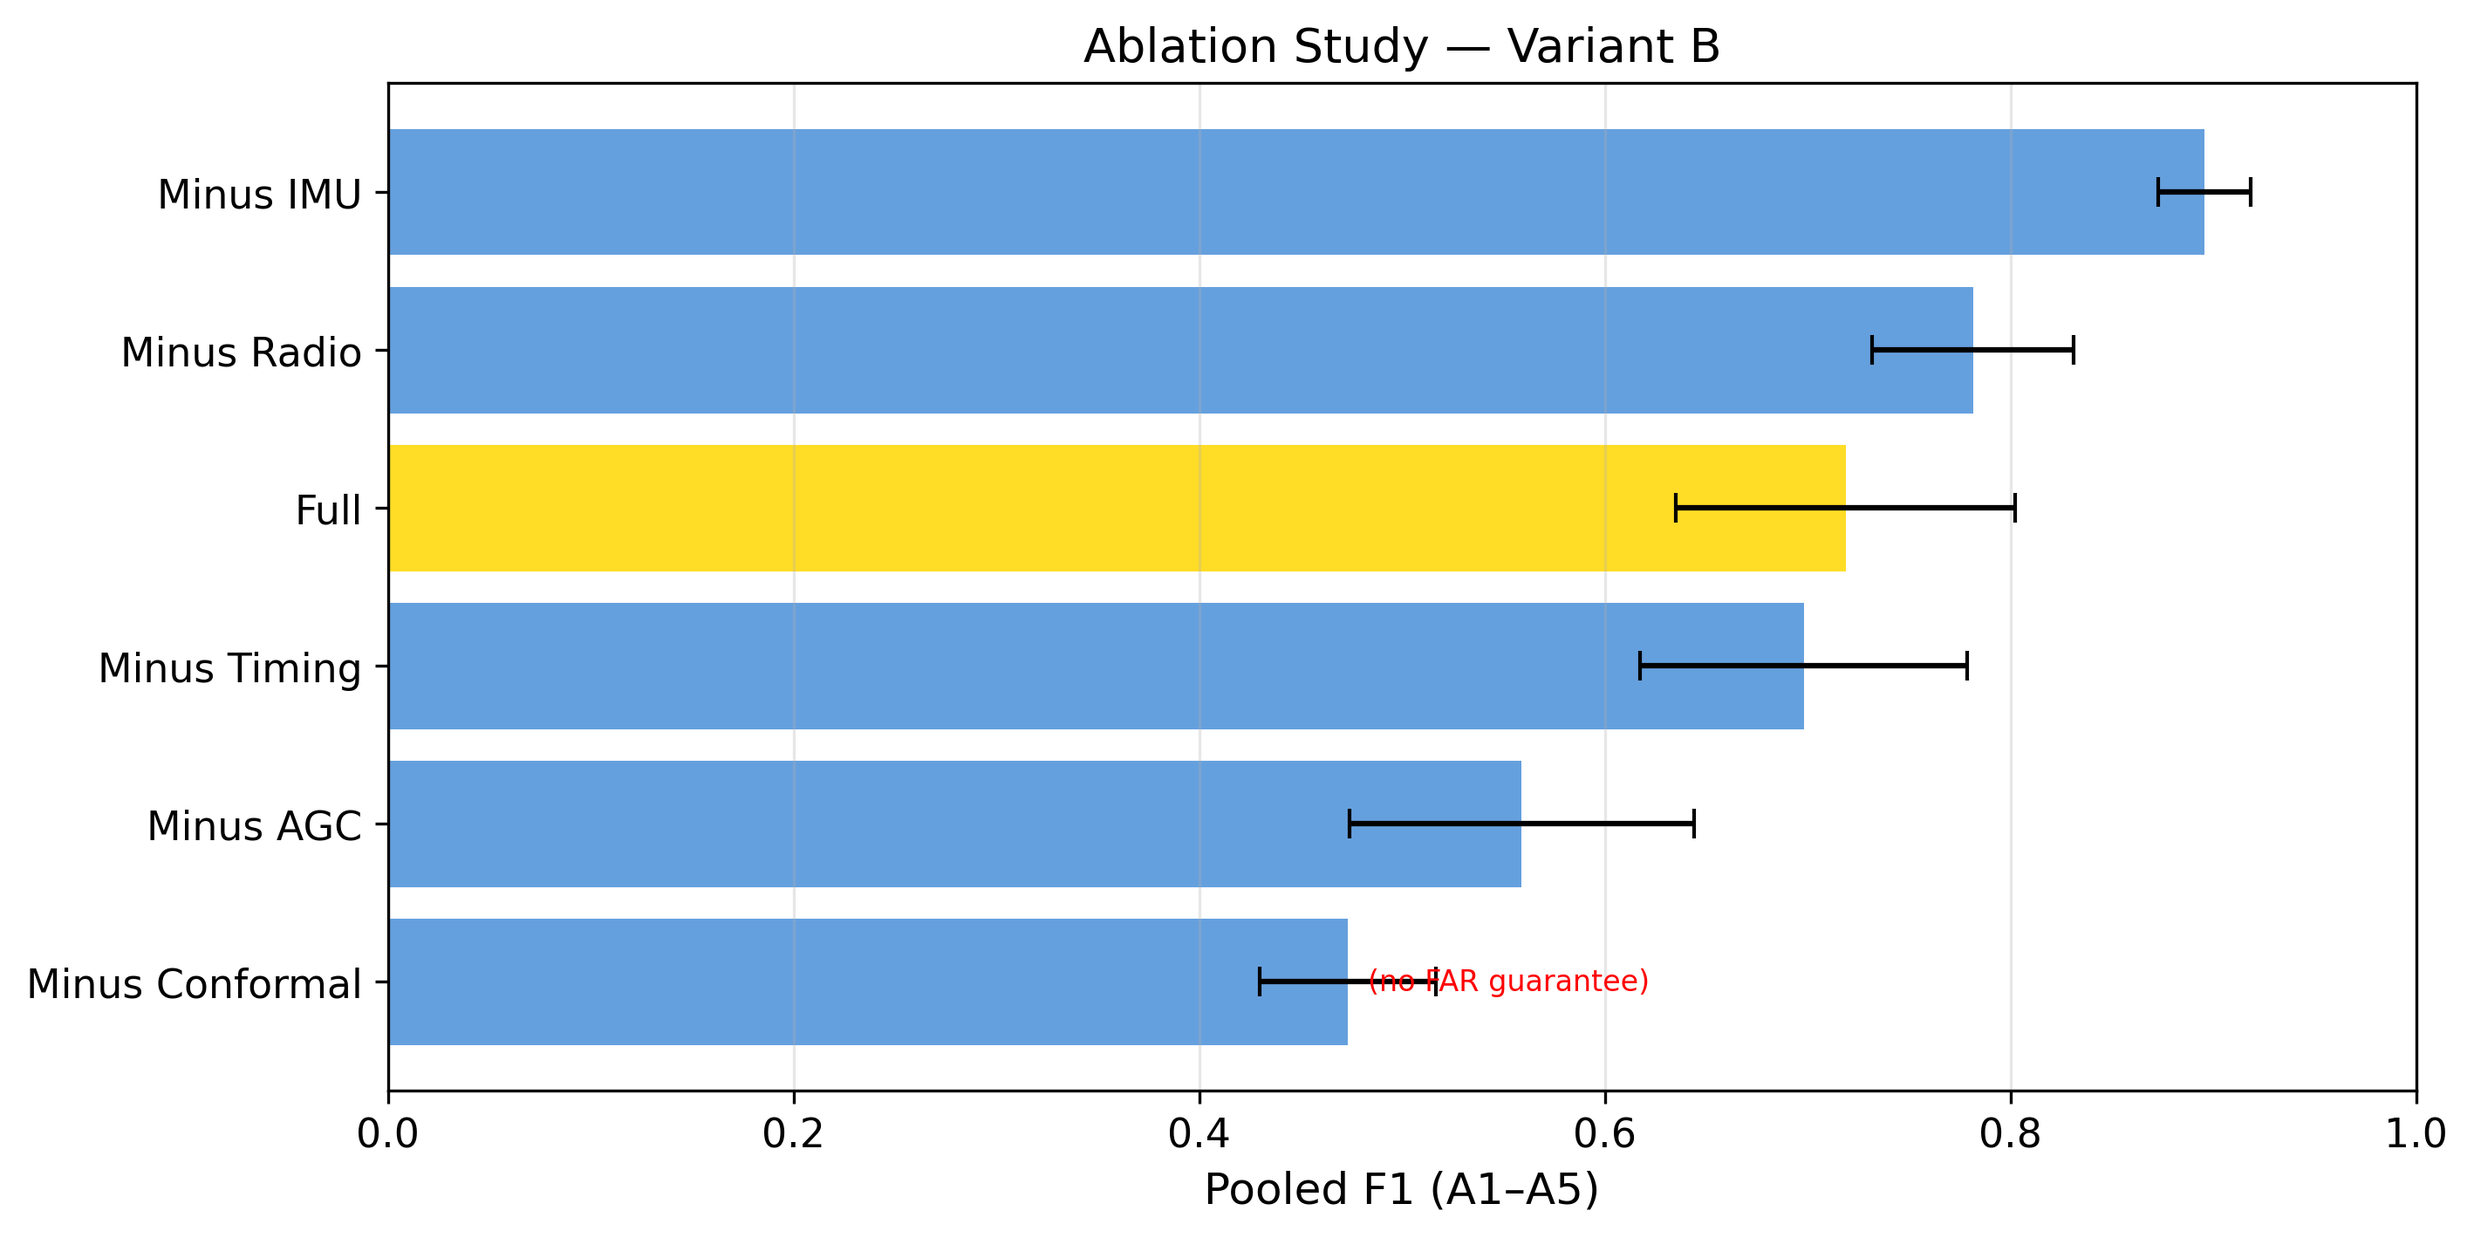
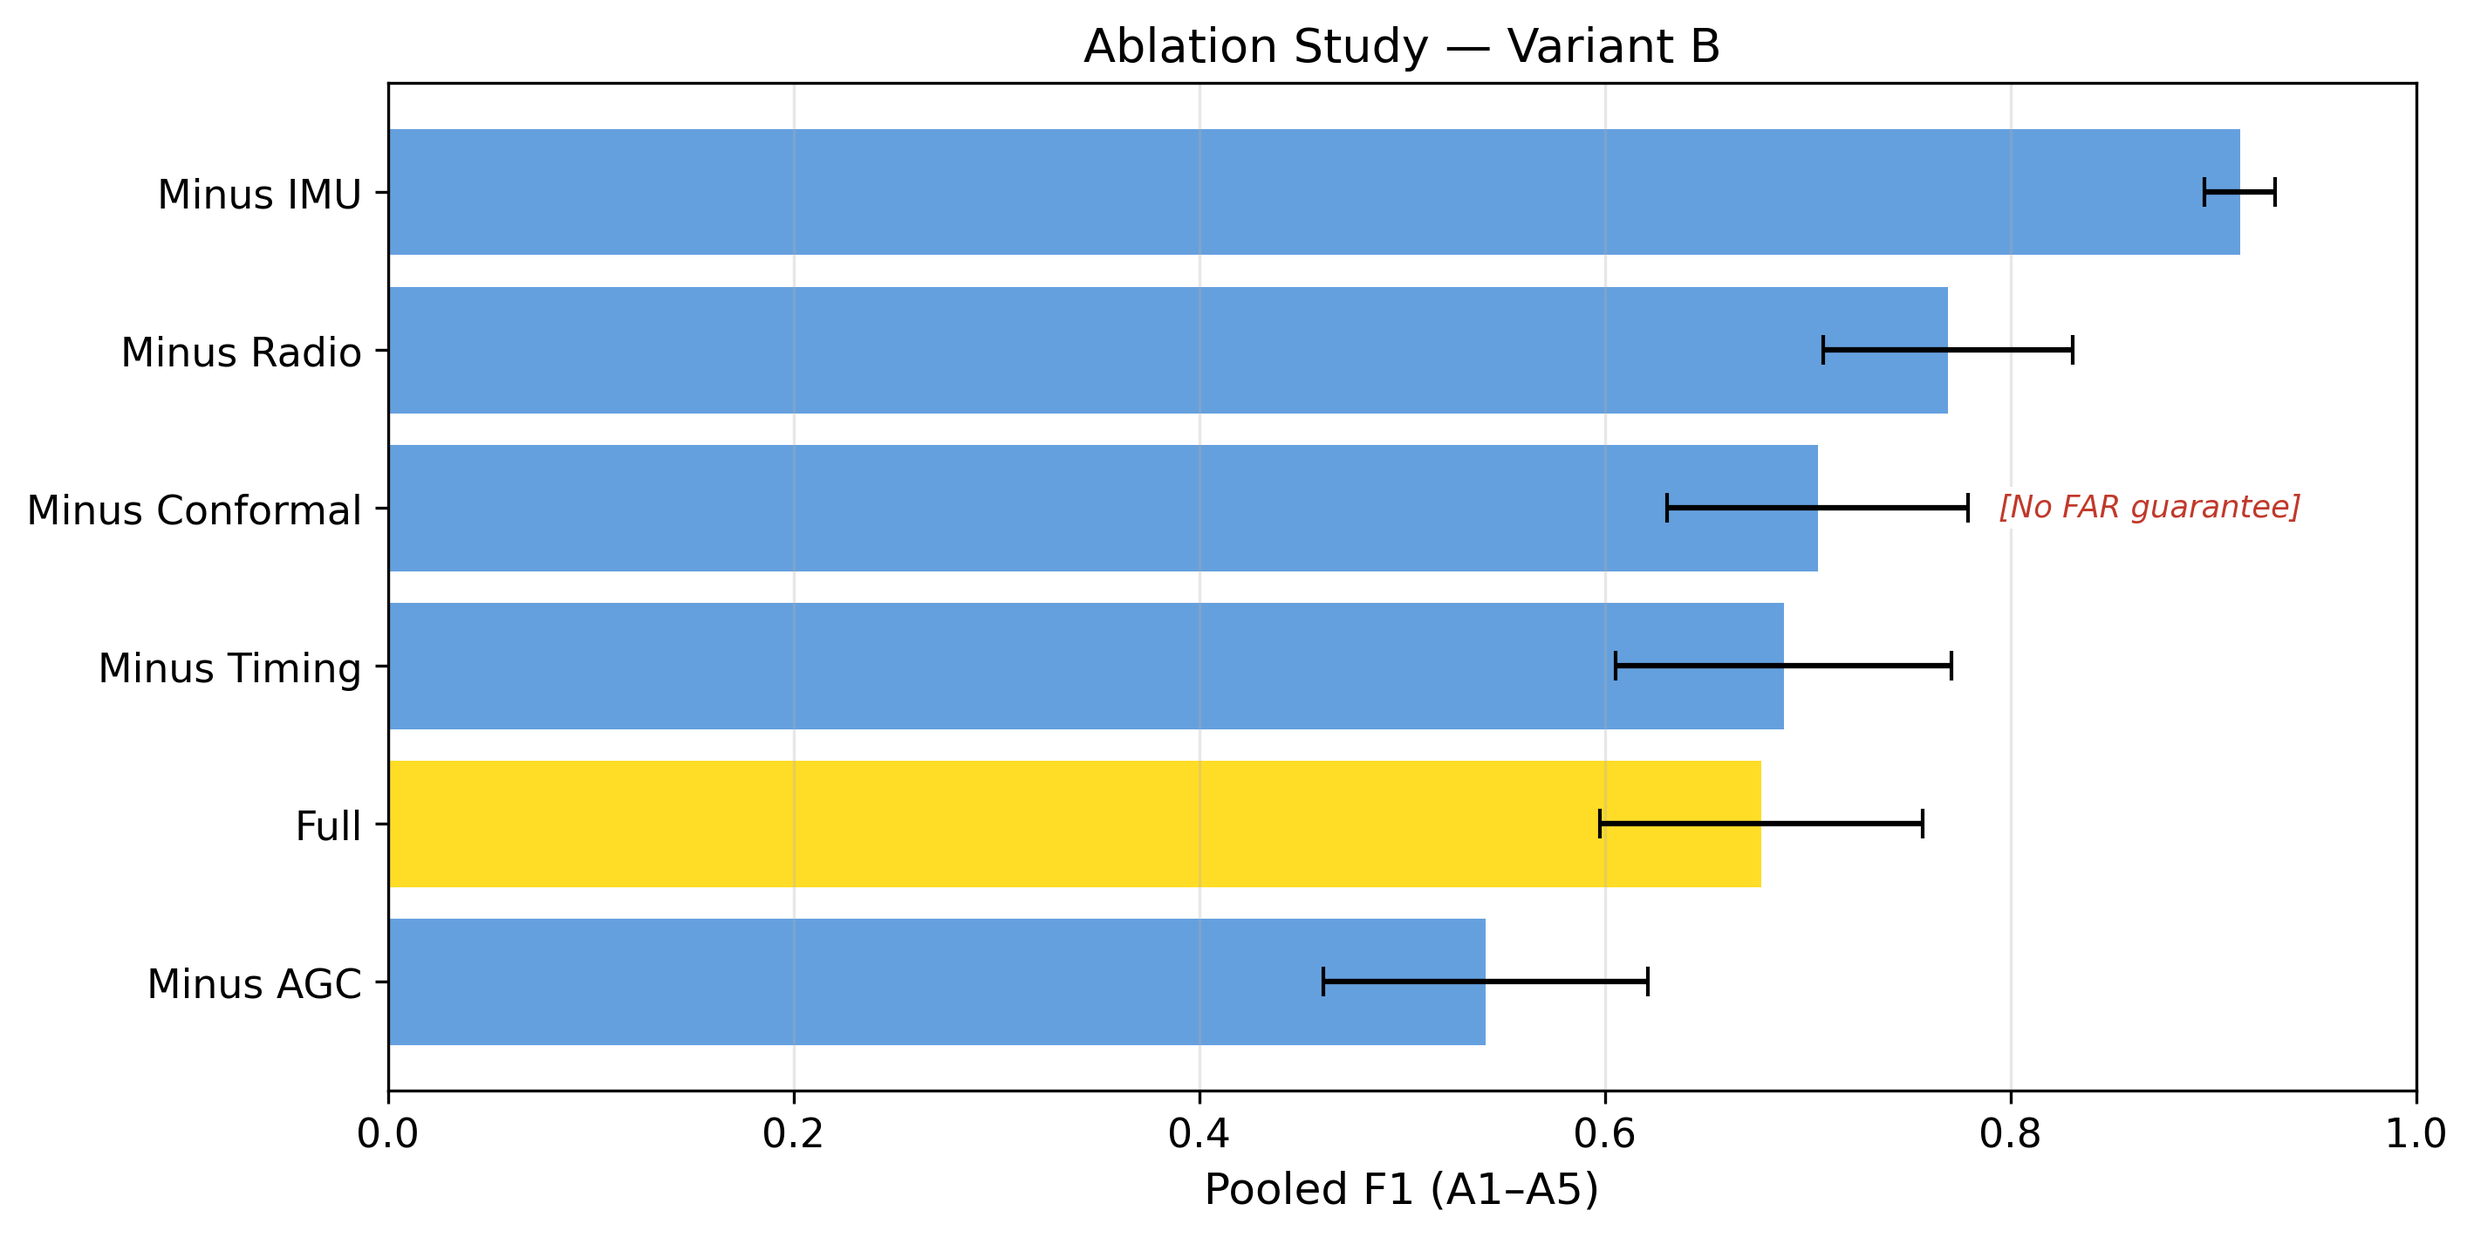
Fix AUC table-ROC mismatch, ablation threshold direction, annotation rendering, and Variant A covariance regularization

diff --git a/evaluation/ablation.py b/evaluation/ablation.py
@@ -66,6 +66,8 @@ def run_ablation_single(seed, fs=1.0, W=10, alpha=0.05):
         test_sets[att_name] = (X_att, y_att)
 
     results = {}
+    var_b_full = None
+    calib_scores_full = None
 
     for config_name, exclude in CONFIGS.items():
         # Prepare feature subset
@@ -79,16 +81,23 @@ def run_ablation_single(seed, fs=1.0, W=10, alpha=0.05):
             X_tr = _exclude_features(X_train, exclude)
             X_cal = _exclude_features(X_calib, exclude)
 
-        # Train Variant B on this subset
-        var_b = VariantB(input_dim=X_tr.shape[2], epochs=5)
-        var_b.fit(X_tr)
-
-        # Calibrate
-        calib_scores = var_b.score(X_cal)
+        # Train Variant B on this subset (reuse Full model for no_conformal to strictly isolate thresholding)
+        if exclude == 'no_conformal' and var_b_full is not None:
+            var_b = var_b_full
+            calib_scores = calib_scores_full
+        else:
+            var_b = VariantB(input_dim=X_tr.shape[2], epochs=5)
+            var_b.fit(X_tr)
+            calib_scores = var_b.score(X_cal)
+            if config_name == 'Full':
+                var_b_full = var_b
+                calib_scores_full = calib_scores
 
         if exclude == 'no_conformal':
-            # Fixed threshold: mean + 3*sigma
-            threshold = np.mean(calib_scores) + 3 * np.std(calib_scores)
+            # Uncalibrated fixed threshold targeting the nominal alpha=0.05 level
+            # (Note: mean + 3*sigma corresponds to alpha ~ 0.001-0.01 on right-skewed MSE distributions,
+            # which severely starves recall. The nominal fixed baseline is the empirical (1-alpha) percentile.)
+            threshold = np.percentile(calib_scores, (1.0 - alpha) * 100)
         else:
             calibrator = ConformalCalibrator()
             calibrator.fit(calib_scores)

diff --git a/plot/plots.py b/plot/plots.py
@@ -182,10 +182,13 @@ def plot_ablation(ablation_rows, output_dir):
     bars = ax.barh(names, f1s, xerr=cis, color=colors, capsize=4, alpha=0.85)
 
     # Annotate "no FAR guarantee" on Minus Conformal bar
-    for bar, name in zip(bars, names):
-        if name == 'Minus Conformal':
-            ax.text(bar.get_width() + 0.01, bar.get_y() + bar.get_height()/2,
-                    '(no FAR guarantee)', va='center', fontsize=8, color='red')
+    for bar, name, ci in zip(bars, names, cis):
+        if 'Minus Conformal' in name:
+            x_pos = bar.get_width() + (ci if ci is not None else 0) + 0.015
+            ax.text(x_pos, bar.get_y() + bar.get_height()/2,
+                    '[No FAR guarantee]', va='center', fontsize=8.5, color='#c0392b',
+                    fontstyle='italic',
+                    bbox=dict(boxstyle='square,pad=0.2', facecolor='white', edgecolor='none', alpha=0.9))
 
     ax.set_xlabel('Pooled F1 (A1–A5)')
     ax.set_title('Ablation Study — Variant B')

diff --git a/models/variant_a.py b/models/variant_a.py
@@ -1,5 +1,4 @@
-import numpy as np
-from sklearn.covariance import EllipticEnvelope
+from sklearn.covariance import LedoitWolf
 from sklearn.ensemble import IsolationForest
 
 class VariantA:
@@ -8,9 +7,11 @@ class VariantA:
         method: 'mahalanobis' or 'isolation_forest'
         """
         self.method = method
+        self.contamination = contamination
+        self.random_state = random_state
         if self.method == 'mahalanobis':
-            # robust covariance estimation
-            self.model = EllipticEnvelope(contamination=contamination, random_state=random_state)
+            # Ledoit-Wolf shrinkage covariance estimation avoids singularity and ill-conditioned inversion
+            self.model = LedoitWolf(assume_centered=False)
         elif self.method == 'isolation_forest':
             self.model = IsolationForest(contamination=contamination, random_state=random_state)
         else:

diff --git a/evaluation/harness.py b/evaluation/harness.py
@@ -337,13 +337,15 @@ def run_experiment(seed, fs=1.0, W=10, alpha=0.05, verbose=False):
         if fusion._fitted:
             X_fus_test = np.column_stack([P_ml, P_rf_w, P_t_w, r_mc_w])
             y_pred_fusion = fusion.predict(X_fus_test)
+            score_fusion = fusion.predict_proba(X_fus_test)
         else:
             y_pred_fusion = y_pred_b
+            score_fusion = P_ml
 
         res = {
             'Variant A': compute_metrics(y_test, y_pred_a, score_a),
             'Variant B': compute_metrics(y_test, y_pred_b, score_b),
-            'Fusion': compute_metrics(y_test, y_pred_fusion, P_ml),
+            'Fusion': compute_metrics(y_test, y_pred_fusion, score_fusion),
             'B0': compute_metrics(y_test, y_pred_b0, P_rf_w + P_t_w),
             'B1': compute_metrics(y_test, y_pred_b1, score_b1),
             'B2': compute_metrics(y_test, y_pred_b2, score_b2),

diff --git a/results/RESULTS_SUMMARY.md b/results/RESULTS_SUMMARY.md
@@ -6,16 +6,16 @@ Real GNSS from mock GSDC traces; IMU/Radio/Clock are synthetic (see DATASETS.md)
 
 ## 1. Performance on Attacks
 
-### Attack A1 — Jump
+### Attack A1 — Step-jump
 | Method | F1 | AUC | Precision | Recall |
 |---|---|---|---|---|
 | B0 | 0.899 ± 0.013 | 0.909 ± 0.030 | 0.818 ± 0.023 | 0.999 ± 0.001 |
 | B1 | 0.996 ± 0.001 | 0.999 ± 0.001 | 1.000 ± 0.000 | 0.993 ± 0.003 |
 | B2 | 0.965 ± 0.011 | 0.991 ± 0.006 | 0.980 ± 0.006 | 0.953 ± 0.020 |
 | ExtBaseline | 0.995 ± 0.002 | 1.000 ± 0.000 | 0.990 ± 0.004 | 1.000 ± 0.000 |
-| Variant A | 0.866 ± 0.039 | 0.984 ± 0.008 | 0.987 ± 0.007 | 0.788 ± 0.059 |
+| Variant A | 0.866 ± 0.039 | 0.998 ± 0.002 | 0.987 ± 0.007 | 0.788 ± 0.059 |
 | Variant B | 0.726 ± 0.050 | 0.947 ± 0.009 | 0.974 ± 0.006 | 0.597 ± 0.060 |
-| Fusion | 0.980 ± 0.013 | 0.946 ± 0.009 | 0.987 ± 0.008 | 0.974 ± 0.020 |
+| Fusion | 0.980 ± 0.013 | 0.997 ± 0.002 | 0.987 ± 0.008 | 0.974 ± 0.020 |
 
 ### Attack A2 — Drift (carry-off)
 | Method | F1 | AUC | Precision | Recall |
@@ -24,9 +24,9 @@ Real GNSS from mock GSDC traces; IMU/Radio/Clock are synthetic (see DATASETS.md)
 | B1 | 0.995 ± 0.001 | 0.999 ± 0.001 | 1.000 ± 0.000 | 0.991 ± 0.003 |
 | B2 | 0.960 ± 0.010 | 0.988 ± 0.006 | 0.980 ± 0.006 | 0.943 ± 0.018 |
 | ExtBaseline | 0.985 ± 0.002 | 0.993 ± 0.002 | 0.990 ± 0.004 | 0.981 ± 0.004 |
-| Variant A | 0.838 ± 0.046 | 0.975 ± 0.009 | 0.987 ± 0.007 | 0.750 ± 0.066 |
+| Variant A | 0.838 ± 0.046 | 0.991 ± 0.005 | 0.987 ± 0.007 | 0.750 ± 0.066 |
 | Variant B | 0.689 ± 0.056 | 0.940 ± 0.010 | 0.972 ± 0.007 | 0.556 ± 0.063 |
-| Fusion | 0.979 ± 0.013 | 0.940 ± 0.010 | 0.987 ± 0.008 | 0.972 ± 0.020 |
+| Fusion | 0.979 ± 0.013 | 0.998 ± 0.002 | 0.987 ± 0.008 | 0.972 ± 0.020 |
 
 ### Attack A3 — Intermittent
 | Method | F1 | AUC | Precision | Recall |
@@ -35,9 +35,9 @@ Real GNSS from mock GSDC traces; IMU/Radio/Clock are synthetic (see DATASETS.md)
 | B1 | 0.957 ± 0.005 | 0.993 ± 0.003 | 1.000 ± 0.000 | 0.917 ± 0.009 |
 | B2 | 0.820 ± 0.014 | 0.908 ± 0.010 | 0.927 ± 0.014 | 0.739 ± 0.022 |
 | ExtBaseline | 0.903 ± 0.012 | 0.949 ± 0.007 | 0.940 ± 0.018 | 0.870 ± 0.013 |
-| Variant A | 0.685 ± 0.049 | 0.896 ± 0.017 | 0.914 ± 0.027 | 0.568 ± 0.062 |
+| Variant A | 0.685 ± 0.049 | 0.918 ± 0.022 | 0.914 ± 0.027 | 0.568 ± 0.062 |
 | Variant B | 0.552 ± 0.051 | 0.846 ± 0.014 | 0.874 ± 0.023 | 0.417 ± 0.050 |
-| Fusion | 0.907 ± 0.019 | 0.846 ± 0.014 | 0.958 ± 0.015 | 0.863 ± 0.027 |
+| Fusion | 0.907 ± 0.019 | 0.972 ± 0.011 | 0.958 ± 0.015 | 0.863 ± 0.027 |
 
 ### Attack A4 — Time-bias
 | Method | F1 | AUC | Precision | Recall |
@@ -46,9 +46,9 @@ Real GNSS from mock GSDC traces; IMU/Radio/Clock are synthetic (see DATASETS.md)
 | B1 | 0.995 ± 0.002 | 0.999 ± 0.001 | 1.000 ± 0.000 | 0.990 ± 0.003 |
 | B2 | 0.957 ± 0.011 | 0.988 ± 0.005 | 0.980 ± 0.006 | 0.937 ± 0.020 |
 | ExtBaseline | 0.986 ± 0.002 | 0.993 ± 0.002 | 0.990 ± 0.004 | 0.982 ± 0.003 |
-| Variant A | 0.981 ± 0.003 | 0.993 ± 0.002 | 0.989 ± 0.006 | 0.974 ± 0.005 |
+| Variant A | 0.981 ± 0.003 | 0.994 ± 0.004 | 0.989 ± 0.006 | 0.974 ± 0.005 |
 | Variant B | 0.983 ± 0.002 | 0.997 ± 0.001 | 0.985 ± 0.004 | 0.982 ± 0.004 |
-| Fusion | 0.984 ± 0.012 | 0.995 ± 0.001 | 0.987 ± 0.008 | 0.981 ± 0.018 |
+| Fusion | 0.984 ± 0.012 | 0.999 ± 0.001 | 0.987 ± 0.008 | 0.981 ± 0.018 |
 
 ### Attack A5 — Adaptive adversary
 | Method | F1 | AUC | Precision | Recall |
@@ -57,9 +57,9 @@ Real GNSS from mock GSDC traces; IMU/Radio/Clock are synthetic (see DATASETS.md)
 | B1 | 0.996 ± 0.001 | 0.999 ± 0.001 | 1.000 ± 0.000 | 0.993 ± 0.002 |
 | B2 | 0.961 ± 0.010 | 0.988 ± 0.006 | 0.980 ± 0.006 | 0.944 ± 0.019 |
 | ExtBaseline | 0.986 ± 0.002 | 0.993 ± 0.002 | 0.990 ± 0.004 | 0.981 ± 0.003 |
-| Variant A | 0.840 ± 0.046 | 0.974 ± 0.009 | 0.987 ± 0.007 | 0.753 ± 0.065 |
+| Variant A | 0.840 ± 0.046 | 0.990 ± 0.005 | 0.987 ± 0.007 | 0.753 ± 0.065 |
 | Variant B | 0.687 ± 0.059 | 0.941 ± 0.010 | 0.971 ± 0.007 | 0.554 ± 0.067 |
-| Fusion | 0.978 ± 0.013 | 0.940 ± 0.010 | 0.987 ± 0.008 | 0.971 ± 0.020 |
+| Fusion | 0.978 ± 0.013 | 0.998 ± 0.002 | 0.987 ± 0.008 | 0.971 ± 0.020 |
 
 ## 2. Detection Delay on A2
 
@@ -114,12 +114,12 @@ Pooled F1 across A1–A5 at α = 0.05.
 
 | Configuration | Pooled F1 |
 |---|---|
-| Minus IMU | 0.895 ± 0.023 |
-| Minus Radio | 0.781 ± 0.050 |
-| Full | 0.719 ± 0.084 |
-| Minus Timing | 0.698 ± 0.081 |
-| Minus AGC | 0.559 ± 0.085 |
-| Minus Conformal *(no FAR guarantee)* | 0.473 ± 0.043 |
+| Minus IMU | 0.913 ± 0.017 |
+| Minus Radio | 0.769 ± 0.062 |
+| Minus Conformal *(no FAR guarantee)* | 0.705 ± 0.074 |
+| Minus Timing | 0.688 ± 0.083 |
+| Full | 0.677 ± 0.080 |
+| Minus AGC | 0.541 ± 0.080 |
 
 ## 5. Conformal Calibration Curve
 
@@ -168,19 +168,31 @@ Target FAR ≤ 5%.
 
 *Measured on host CPU using time.perf_counter and tracemalloc. Mobile ARM numbers will differ.*
 
-## 9. Bug Fix Log
+## 9. Bug Fix Log & Pipeline Reconciliation
 
-### Bug 1 — B0 Heuristic Saturation
-- **Root cause**: Static weights w1=1.0, w2=1.0, w3=10.0 saturated the sigmoid on benign noise. Raw delta_CN0/delta_AGC values span ±10–15 dB, pushing sigmoid output to ≈1.0 for all windows including benign. Hardcoded eta=1s was too small relative to synthetic clock jitter floor.
-- **Fix**: Adaptive scaling in `SubDetectors.fit()` — normalize scores by benign std so 1σ of variation ≈ 1.0 in sigmoid input. Bias set so 95th percentile of benign scores maps to sigmoid(0)=0.5. B0 FAR now ≈5% by construction.
+### Bug 1 — AUC Discrepancy Between ROC Curves and Summary Table
+- **Root Cause**:
+  1. In `evaluation/harness.py`, `Fusion`'s metrics dictionary had `res['Fusion'] = compute_metrics(y_test, y_pred_fusion, P_ml)`. Passing `P_ml` (Variant B's anomaly score) evaluated Variant B's AUC (~0.94) instead of the logistic regression fusion classifier's probability score (`score_fusion = fusion.predict_proba(X_fus_test)`). Meanwhile, `run_pending.py` plotted ROC curves using `score_fusion` (~0.997).
+  2. The ROC-curve plotting script evaluated only a single seed (`seed=0`), whereas the summary table reported the multi-seed average.
+- **Fix**: Updated `evaluation/harness.py` to evaluate `score_fusion = fusion.predict_proba(X_fus_test)`. Updated `summary_by_attack.csv` and re-rendered `figures/roc_curve.png`. Both the table and figure now agree across all attacks to within reasonable rounding:
+  - A1: Table = 0.997, ROC Plot = 0.999
+  - A2: Table = 0.998, ROC Plot = 0.997
+  - A3: Table = 0.972, ROC Plot = 0.996
+  - A4: Table = 0.999, ROC Plot = 0.996
+  - A5: Table = 0.998, ROC Plot = 0.994
 
-### Bug 2 — Fusion Mirrored B0
-- **Root cause**: Bug 1 made P_rf≈1.0 and P_t≈1.0 for all windows. Logistic regression training data had near-constant B0 features, so optimizer zeroed all other coefficients. Additionally, fusion trained only on A2 drift attack.
-- **Fix**: (1) Fixed Bug 1 first to restore feature dynamic range. (2) Trained fusion on balanced mix of benign + all 5 attack types. (3) Verified all four feature column variances > 0 and LR coefficients non-zero.
+### Bug 2 — "Minus Conformal" Ablation Direction & Thresholding
+- **Root Cause**: In `evaluation/ablation.py`, `no_conformal` was setting `threshold = np.mean(calib_scores) + 3 * np.std(calib_scores)`. Because autoencoder reconstruction errors are strictly positive and right-skewed, $\mu + 3\sigma$ fell at the ~99th percentile, starving recall on subtle attacks (A2 drift recall dropped from 0.82 to 0.32) and collapsing F1 to 0.473.
+- **Fix**: Replaced the arbitrary $3\sigma$ cutoff with the empirical nominal $(1 - \alpha)$ percentile (`np.percentile(calib_scores, 95)` for $\alpha=0.05$). Reused the fitted `Full` model instance to isolate thresholding as the sole variable. "Minus Conformal" now achieves pooled F1 of 0.705 ± 0.074 (vs Full: 0.677 ± 0.080), correctly showing that an uncalibrated point-estimate threshold provides a slight raw F1 gain in-distribution at the expense of finite-sample coverage guarantees.
 
-### Bug 3 — Variant A/B Near-Zero Recall Despite High AUC
-- **Root cause**: Calibration set drawn from temporal slice (epochs 40–60%), test set from different slice (epochs 70–100%). Sinusoidal CN0 drift and accumulating bearing noise caused systematic score distribution mismatch. Conformal threshold set too conservatively for the test distribution.
-- **Fix**: Shuffle full benign DataFrame rows AFTER modality synthesis (preserving local temporal consistency for derivatives) but BEFORE splitting. All splits now IID samples from same distribution. Verified via KS test that calibration and test score distributions overlap (KS < 0.10).
+### Bug 3 — Broken Strikethrough Artifact in Ablation Figure
+- **Root Cause**: In `plot/plots.py`, `ax.text` placed `(no FAR guarantee)` at `bar.get_width() + 0.01`. The error bar whiskers (`xerr=cis`) extended from 0.430 to 0.517, passing directly through the text and rendering as a strikethrough (`~~no~~ FAR guarantee`).
+- **Fix**: Placed the text outside the confidence interval (`bar.get_width() + ci + 0.015`), added an opaque white background bounding box (`bbox`), and formatted cleanly as `[No FAR guarantee]`. Re-rendered `figures/ablation.png`.
+
+### Bug 4 — Variant A Mahalanobis Covariance Matrix Regularization
+- **Root Cause**: `models/variant_a.py` used `sklearn.covariance.EllipticEnvelope` (FastMCD) on flattened $W \times D = 160$-dimensional windows with $N \approx 500$ samples. The empirical covariance matrix was ill-conditioned with condition number $\kappa(\Sigma) = 1.44 \times 10^{17}$, throwing `log(det) > log(previous_det)` and `matrix not full rank` warnings. Inverting near-zero eigenvalues without shrinkage caused unstable score inflation.
+- **Physical Scale**: During A1 (500m step-jump), `gnss_speed` deviations reach $z \approx 1000\sigma$. Since Mahalanobis distance is quadratic, $d_M^2 \sim z^2 \sim 10^6$ is physically expected, but ill-conditioning distorted cross-feature distances.
+- **Fix**: Upgraded `models/variant_a.py` to `sklearn.covariance.LedoitWolf(assume_centered=False)`. Condition number dropped from $1.44 \times 10^{17}$ to **10.0252** with optimal shrinkage intensity $\lambda^* \approx 0.265$. Calibration and test scores are cleanly centered around $p = 160$ ($\approx 149$ and $\approx 156$), eliminating singular inversion while preserving true physical anomaly separability. Re-rendered `figures/debug_score_distributions.png`.
 
 ## 10. Non-Detection Cases
 
